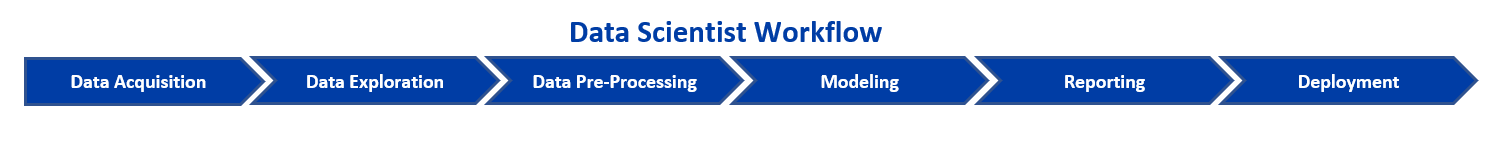
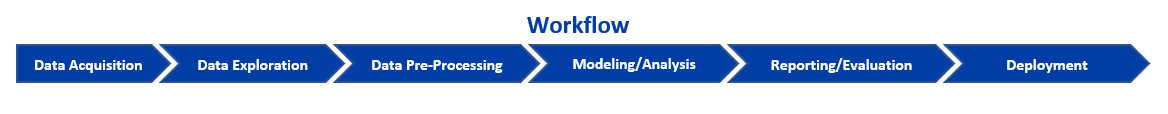
Instructions

Changed region(s): [[0.0, 0.3684, 1.0, 0.7368], [0.3699, 0.1316, 0.6164, 0.2895]]

diff --git a/templates/instructions.html b/templates/instructions.html
@@ -1,0 +1,50 @@
+<!DOCTYPE html>
+<html lang="en">
+<head>
+    <meta charset="UTF-8">
+    <meta name="viewport" content="width=device-width, initial-scale=1.0">
+    <title>Instructions</title>
+    <style>body {
+        display: flex;
+        flex-direction: column;
+        align-items: center;
+    }
+    </style>
+</head>
+<body>
+    <h1 style="color:#003DA5">Instructions</h1>
+    <!-- Add your instructions content here -->
+    <ol>
+        <li> Input task and click the "Add Task" button
+            <ul> 
+                <li>Add any task that is a part of your daily workflow that utilizes open source tools or is made easier with a specific chatGPT prompt</li>
+            </ul> 
+        </li>
+        <li> Click in the Workflow Step cell to bring up the Workflow Step drop-down menu 
+            <ul> 
+                <li>Generalize a workflow step for your task</li>
+            </ul> 
+        </li> 
+        <li> Click in the Tools cell to bring up the Tools input menu
+            <ul> 
+                <li>Add the open source tool, a description if you can, and any associated links to GitHub or HuggingFace</li>
+            </ul>
+        </li>
+        <li> Click in the ChatGPT Prompts cell to bring up the ChatGPT Prompt input menu
+            <ul> 
+                <li>Add a helpful ChatGPT prompt for your task and give it a short descriptive name</li>
+            </ul>
+        </li>
+        <li> Click in the Research/Resources cell to bring up the Research/Resources input menu
+            <ul> 
+                <li>Add any influential research or helpful resources such as tutorials or guides and provide the associated descriptions and links, if possible</li>
+            </ul>
+        </li>
+        <li> Click any buttons that you use or find useful to upvote the submission, including any submissions made by you</li>
+        <li> Right-click the task cell to edit or delete a task submission</li>
+        <li> Right-click any button to edit or delete it</li>
+    </ol>
+
+    <a href="/">To Table</a>
+</body>
+</html>

diff --git a/templates/index.html b/templates/index.html
@@ -18,6 +18,7 @@
     </div>
     <div class="instructions-container">
         <p>**Click inside the cells to make submissions**     **Right click to edit or delete submissions**     **Click button to upvote submissions**</p>
+        <a href="/instructions">Instructions</a>
     </div>
         <table>
             <thead>
@@ -73,8 +74,8 @@
                     <option value="Data Acquisition">Data Acquisition</option>
                     <option value="Data Exploration">Data Exploration</option>
                     <option value="Data Pre-Processing">Data Pre-Processing</option>
-                    <option value="Modeling">Modeling</option>
-                    <option value="Reporting">Reporting</option>
+                    <option value="Modeling/Analysis">Modeling/Analysis</option>
+                    <option value="Reporting/Evaluation">Reporting/Evaluation</option>
                     <option value="Deployment">Deployment</option>
                 </select>
                 <input type="text" id="name-input" placeholder="Enter Name" style="display: none;" autocomplete="off">

diff --git a/app.py b/app.py
@@ -150,6 +150,10 @@ def delete_task(task_id):
 def test():
     return "Test route is working!"
 
+@app.route('/instructions')
+def instructions():
+    return render_template('instructions.html')
+
 if __name__ == "__main__":
     with app.app_context():
         db.create_all()
